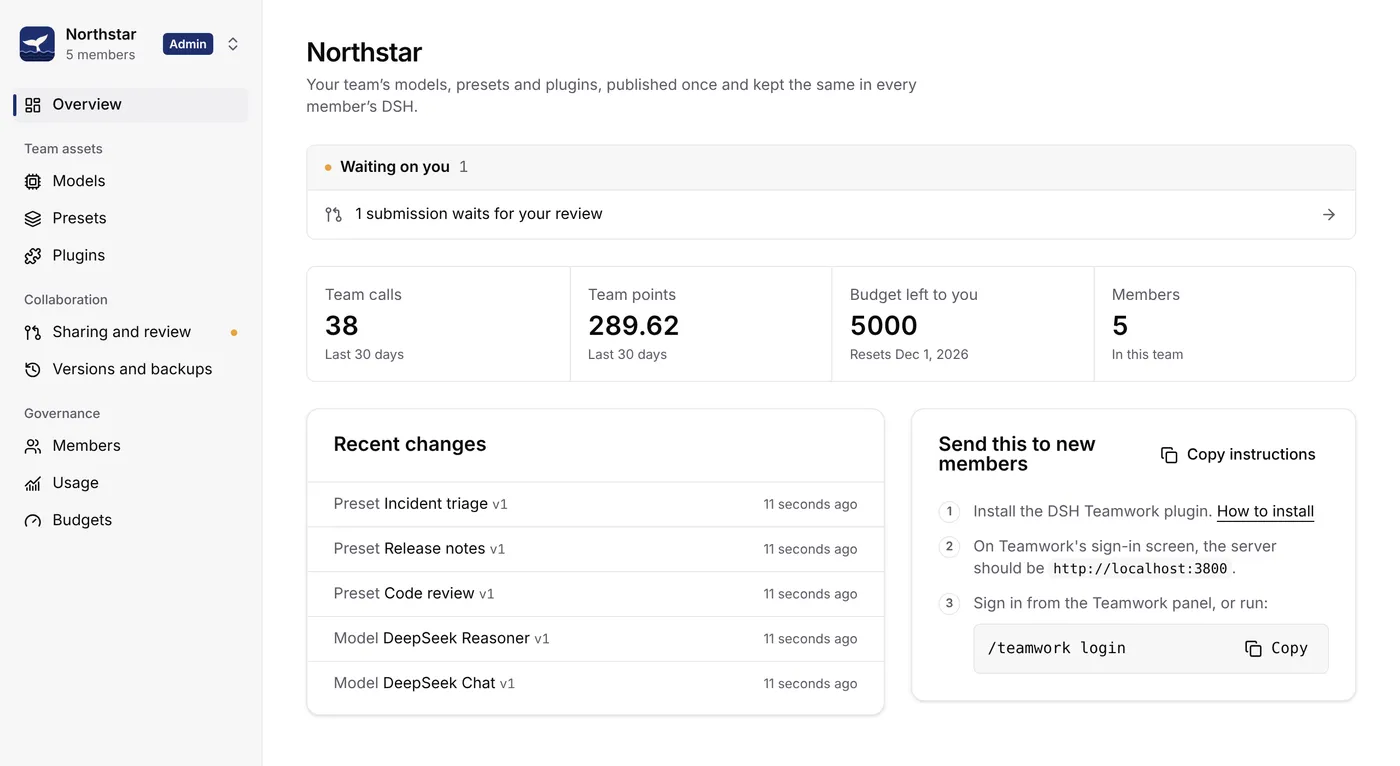
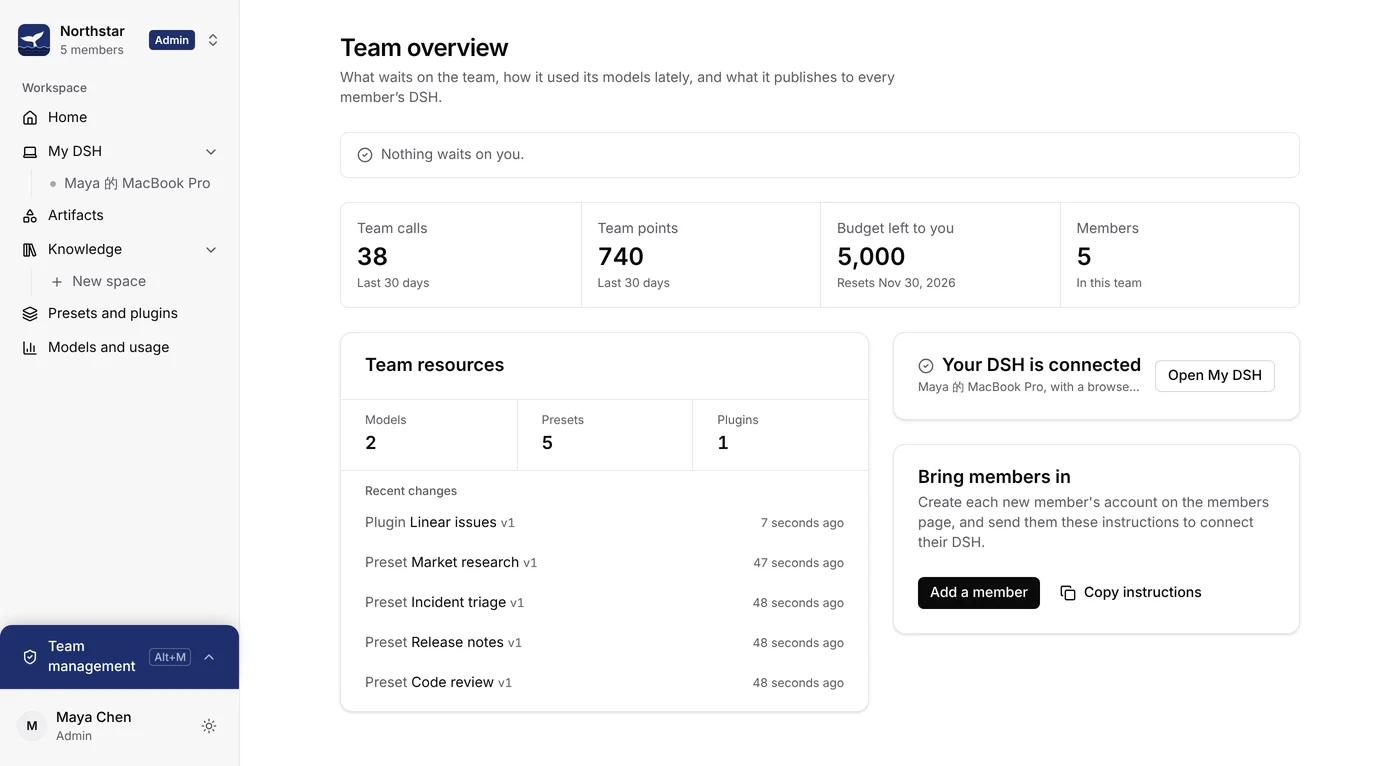
Recapture the home page's console screenshots
The Everywhere section showed the old overview with a submission waiting
for review. Both languages now show the current overview, and the alt
text describes it.

Claude-Session: https://claude.ai/code/session_01WvCWT7Zgt9upiBgwB1zrTe

diff --git a/CHANGELOG.md b/CHANGELOG.md
@@ -31,7 +31,7 @@ are in `CLAUDE.md`, "The changelog".
 
 ## 2026-11-25 — Presets and plugins replace the team toolbox
 
-- **What:** The console's **Presets and plugins** page (`/teams/{teamId}/presets`) replaces the team toolbox and the admin's Presets, Plugins and Review pages; version history opens from it. A member adds an item in one click and follows its latest version, pins one, or removes it, including a team-owned item other than the assistant; an admin recommends a member's item at one version and sees when its author has published past it. `PUT /asset-choices/{id}` takes `{mode: latest | pinned | removed | default, version}` instead of `{version, disabled}`, `GET /asset-choices` adds `users` (members each item reaches), and an author follows their own new item. Catalog search includes descriptions, and document mentions accept names with spaces. The landing page's pricing title no longer reads "Submission history". The landing page's Collaborate section and team diagram describe sharing, recommending and adding instead of submission and review, and the unused review screenshots are gone.
+- **What:** The console's **Presets and plugins** page (`/teams/{teamId}/presets`) replaces the team toolbox and the admin's Presets, Plugins and Review pages; version history opens from it. A member adds an item in one click and follows its latest version, pins one, or removes it, including a team-owned item other than the assistant; an admin recommends a member's item at one version and sees when its author has published past it. `PUT /asset-choices/{id}` takes `{mode: latest | pinned | removed | default, version}` instead of `{version, disabled}`, `GET /asset-choices` adds `users` (members each item reaches), and an author follows their own new item. Catalog search includes descriptions, and document mentions accept names with spaces. The landing page's pricing title no longer reads "Submission history". The landing page's Collaborate section and team diagram describe sharing, recommending and adding instead of submission and review, and the unused review screenshots are gone; the Everywhere section's console screenshots show the new overview.
 - **Why:** Members care whether something is on their DSH and current, not which version number they picked; one list with the admin's actions inside replaces four pages.
 - **Breaking:** The personal choice request and response shapes change, and `/resources`, `/sharing` and the admin `/plugins` page are gone. Nothing shipped depends on them.
 - **Upgrade:** The server applies the `asset_choice_modes` migration, which replaces `asset_selections.disabled` with `mode`.
